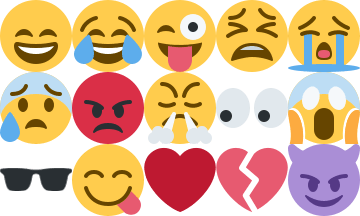
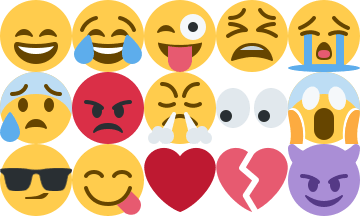
:sparkles: fixed #12286

Changed region(s): [[0.0, 0.6667, 0.2139, 1.0]]

diff --git a/src/main/webapp/js/page.js b/src/main/webapp/js/page.js
@@ -614,11 +614,7 @@ $.extend(Page.prototype, {
                         result.userName = Util.getUserName();
                     }
 
-                    if (typeof(addComment) === "undefined") { // https://github.com/b3log/solo/issues/12246
-                        that.addCommentAjax(Util.replaceEmString(result.cmtTpl), state);
-                    } else { // 1.9.0 向后兼容
-                        that.addCommentAjax(addComment(result, state), state);
-                    }
+                    that.addCommentAjax(Util.replaceEmString(result.cmtTpl), state);
                 }
             });
         }

diff --git a/src/main/webapp/css/default-base.css b/src/main/webapp/css/default-base.css
@@ -401,6 +401,7 @@ button:hover,.button:hover {
 .em00, .em01, .em02, .em03, .em04, .em05, .em06, .em07, .em08, .em09, 
 .em10, .em11, .em12, .em13, .em14 {
     background-image: url("../images/emotions/emotions.png");
+    background-size: 120px;
     float: left;
     height: 24px;
     margin-right: 5px;

diff --git a/src/main/webapp/css/default-admin.css b/src/main/webapp/css/default-admin.css
@@ -953,8 +953,7 @@ button#submitArticle:hover,
     border-radius: 3px;
     box-shadow: 1px 1px 3px #333333;
     line-height: 16px;
-    margin: 24px 12px;
-    padding: 5px;
+    margin: 10px;
     text-align: center;
 }
 
